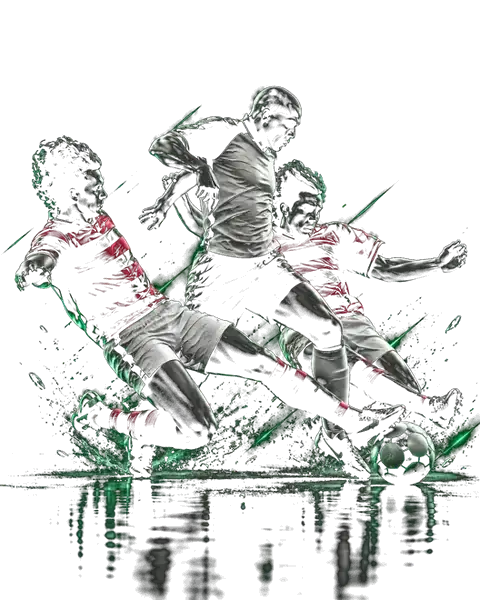
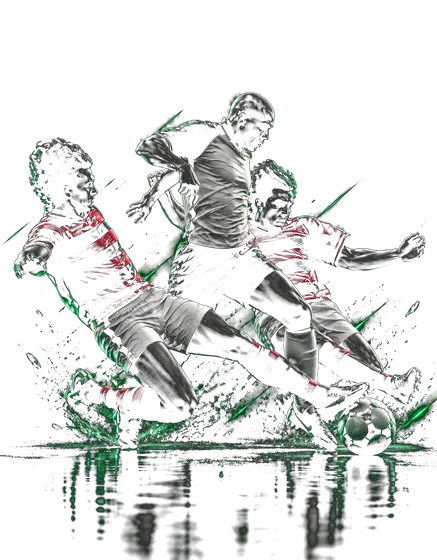
Fotos dos modos no mesmo molde, menores e mais nítidas
As quatro saíam de recortes diferentes e apareciam em tamanhos diferentes
na tela. Agora todas têm a mesma proporção e a mesma caixa: 161 por 206
no computador, 136 por 174 no celular.

Regeradas a partir dos arquivos originais, não dos webp já comprimidos,
com qualidade 82 e alfa 88 no lugar de 60 e 65. O arquivo ficou com quase
três vezes a altura de exibição, então a foto encolheu e ganhou nitidez
em vez de perder.

Claude-Session: https://claude.ai/code/session_01Tvn8vc8MShWFSSNvRPUFzD

diff --git a/casca.html b/casca.html
@@ -545,7 +545,7 @@ h1 em{font-style:italic;color:var(--verde)}
 .modo{position:relative;text-align:left;border:1px solid var(--linha);border-radius:14px;
   background:var(--carta);padding:22px 20px 20px;cursor:pointer;color:inherit;font-family:inherit;
   overflow:hidden;transition:border-color .16s,transform .16s,box-shadow .16s;
-  min-height:268px;padding-right:34%}
+  min-height:236px;padding-right:200px}
 /* o conteúdo precisa ser posicionado: elemento com z-index pinta acima de
    irmão não posicionado, e a foto passaria por cima do texto */
 .modo > :not(.foto){position:relative;z-index:1}
@@ -557,37 +557,29 @@ h1 em{font-style:italic;color:var(--verde)}
 .modo h3{font-size:25px;font-weight:900;font-style:italic;letter-spacing:-.03em;
   margin:8px 0 7px;line-height:1.05;text-transform:uppercase}
 .modo p{font-size:13px;color:var(--apagado);line-height:1.6;max-width:42ch}
-.modo .foto{position:absolute;inset:0 0 0 auto;width:32%;z-index:0;pointer-events:none;
-  -webkit-mask-image:linear-gradient(90deg,transparent,#000 46%);
-  mask-image:linear-gradient(90deg,transparent,#000 46%)}
+/* as quatro fotos saem do mesmo molde: mesma proporção, mesma altura na
+   tela e arquivo com quase três vezes essa altura, para ficar nítido */
+.modo .foto{position:absolute;right:16px;top:auto;bottom:0;height:206px;aspect-ratio:437/560;
+  z-index:0;pointer-events:none;
+  -webkit-mask-image:linear-gradient(90deg,transparent,#000 44%),
+                     linear-gradient(180deg,transparent,#000 16%);
+  mask-image:linear-gradient(90deg,transparent,#000 44%),
+             linear-gradient(180deg,transparent,#000 16%);
+  -webkit-mask-composite:source-in;mask-composite:intersect}
 .modo .foto img{display:block;width:100%;height:100%;object-fit:cover;
   transition:transform .5s cubic-bezier(.2,.7,.3,1),opacity .3s;opacity:.9}
 @media(hover:hover){.modo:hover .foto img{transform:scale(1.06);opacity:1}}
 /* cada foto tem o seu ponto de interesse em altura diferente */
-.modo[data-base="lendas"]    .foto img{object-position:50% 26%}
-.modo[data-base="atuais"]    .foto img{object-position:50% 26%}
-.modo[data-base="temporada"] .foto img{object-position:50% 30%}
-/* os dois estão de corpo inteiro: cabem inteiros em vez de preencher,
-   e a máscara segue a largura real da imagem, não a da caixa */
-/* a caixa toma a proporção da foto: com contain sobrava vazio dentro dela
-   e a máscara, medida em % da caixa, cortava reto na borda da imagem */
-.modo.local .foto{width:auto;aspect-ratio:457/600;
-  -webkit-mask-image:linear-gradient(90deg,transparent,#000 46%),
-                     linear-gradient(180deg,transparent,#000 15%);
-  mask-image:linear-gradient(90deg,transparent,#000 46%),
-             linear-gradient(180deg,transparent,#000 15%);
-  -webkit-mask-composite:source-in;mask-composite:intersect}
-.modo.local .foto img{object-position:50% 100%}
+.modo[data-base="lendas"]    .foto img{object-position:50% 30%}
+.modo[data-base="atuais"]    .foto img{object-position:50% 24%}
+.modo[data-base="temporada"] .foto img{object-position:50% 28%}
+.modo.local                  .foto img{object-position:50% 100%}
 @media(max-width:759px){
-  /* no celular a foto fica atrás do texto, então recua e apaga */
-  .modo{padding-right:20px;min-height:250px}
-  .modo .foto{width:54%;
-    -webkit-mask-image:linear-gradient(90deg,transparent,#000 68%);
-    mask-image:linear-gradient(90deg,transparent,#000 68%)}
+  /* no celular a foto fica atrás do texto, então encolhe e apaga */
+  .modo{padding-right:20px;min-height:236px}
+  .modo .foto{height:174px;right:10px}
   .modo .foto img{opacity:.26}
-  /* a foto do duelo é a mais clara das quatro e vinha por cima do texto */
-  .modo.local .foto{height:78%;top:auto;bottom:0}
-  .modo.local .foto img{opacity:.2}
+  .modo.local .foto img{opacity:.2}   /* é a mais clara das quatro */
   .modo p,.modo .pe{max-width:25ch}
 }
 .modo .pe{display:flex;gap:14px;margin-top:15px;font-size:11px;color:var(--apagado);

diff --git a/index.html b/index.html
@@ -545,7 +545,7 @@ h1 em{font-style:italic;color:var(--verde)}
 .modo{position:relative;text-align:left;border:1px solid var(--linha);border-radius:14px;
   background:var(--carta);padding:22px 20px 20px;cursor:pointer;color:inherit;font-family:inherit;
   overflow:hidden;transition:border-color .16s,transform .16s,box-shadow .16s;
-  min-height:268px;padding-right:34%}
+  min-height:236px;padding-right:200px}
 /* o conteúdo precisa ser posicionado: elemento com z-index pinta acima de
    irmão não posicionado, e a foto passaria por cima do texto */
 .modo > :not(.foto){position:relative;z-index:1}
@@ -557,37 +557,29 @@ h1 em{font-style:italic;color:var(--verde)}
 .modo h3{font-size:25px;font-weight:900;font-style:italic;letter-spacing:-.03em;
   margin:8px 0 7px;line-height:1.05;text-transform:uppercase}
 .modo p{font-size:13px;color:var(--apagado);line-height:1.6;max-width:42ch}
-.modo .foto{position:absolute;inset:0 0 0 auto;width:32%;z-index:0;pointer-events:none;
-  -webkit-mask-image:linear-gradient(90deg,transparent,#000 46%);
-  mask-image:linear-gradient(90deg,transparent,#000 46%)}
+/* as quatro fotos saem do mesmo molde: mesma proporção, mesma altura na
+   tela e arquivo com quase três vezes essa altura, para ficar nítido */
+.modo .foto{position:absolute;right:16px;top:auto;bottom:0;height:206px;aspect-ratio:437/560;
+  z-index:0;pointer-events:none;
+  -webkit-mask-image:linear-gradient(90deg,transparent,#000 44%),
+                     linear-gradient(180deg,transparent,#000 16%);
+  mask-image:linear-gradient(90deg,transparent,#000 44%),
+             linear-gradient(180deg,transparent,#000 16%);
+  -webkit-mask-composite:source-in;mask-composite:intersect}
 .modo .foto img{display:block;width:100%;height:100%;object-fit:cover;
   transition:transform .5s cubic-bezier(.2,.7,.3,1),opacity .3s;opacity:.9}
 @media(hover:hover){.modo:hover .foto img{transform:scale(1.06);opacity:1}}
 /* cada foto tem o seu ponto de interesse em altura diferente */
-.modo[data-base="lendas"]    .foto img{object-position:50% 26%}
-.modo[data-base="atuais"]    .foto img{object-position:50% 26%}
-.modo[data-base="temporada"] .foto img{object-position:50% 30%}
-/* os dois estão de corpo inteiro: cabem inteiros em vez de preencher,
-   e a máscara segue a largura real da imagem, não a da caixa */
-/* a caixa toma a proporção da foto: com contain sobrava vazio dentro dela
-   e a máscara, medida em % da caixa, cortava reto na borda da imagem */
-.modo.local .foto{width:auto;aspect-ratio:457/600;
-  -webkit-mask-image:linear-gradient(90deg,transparent,#000 46%),
-                     linear-gradient(180deg,transparent,#000 15%);
-  mask-image:linear-gradient(90deg,transparent,#000 46%),
-             linear-gradient(180deg,transparent,#000 15%);
-  -webkit-mask-composite:source-in;mask-composite:intersect}
-.modo.local .foto img{object-position:50% 100%}
+.modo[data-base="lendas"]    .foto img{object-position:50% 30%}
+.modo[data-base="atuais"]    .foto img{object-position:50% 24%}
+.modo[data-base="temporada"] .foto img{object-position:50% 28%}
+.modo.local                  .foto img{object-position:50% 100%}
 @media(max-width:759px){
-  /* no celular a foto fica atrás do texto, então recua e apaga */
-  .modo{padding-right:20px;min-height:250px}
-  .modo .foto{width:54%;
-    -webkit-mask-image:linear-gradient(90deg,transparent,#000 68%);
-    mask-image:linear-gradient(90deg,transparent,#000 68%)}
+  /* no celular a foto fica atrás do texto, então encolhe e apaga */
+  .modo{padding-right:20px;min-height:236px}
+  .modo .foto{height:174px;right:10px}
   .modo .foto img{opacity:.26}
-  /* a foto do duelo é a mais clara das quatro e vinha por cima do texto */
-  .modo.local .foto{height:78%;top:auto;bottom:0}
-  .modo.local .foto img{opacity:.2}
+  .modo.local .foto img{opacity:.2}   /* é a mais clara das quatro */
   .modo p,.modo .pe{max-width:25ch}
 }
 .modo .pe{display:flex;gap:14px;margin-top:15px;font-size:11px;color:var(--apagado);

diff --git a/tmpl.html b/tmpl.html
@@ -545,7 +545,7 @@ h1 em{font-style:italic;color:var(--verde)}
 .modo{position:relative;text-align:left;border:1px solid var(--linha);border-radius:14px;
   background:var(--carta);padding:22px 20px 20px;cursor:pointer;color:inherit;font-family:inherit;
   overflow:hidden;transition:border-color .16s,transform .16s,box-shadow .16s;
-  min-height:268px;padding-right:34%}
+  min-height:236px;padding-right:200px}
 /* o conteúdo precisa ser posicionado: elemento com z-index pinta acima de
    irmão não posicionado, e a foto passaria por cima do texto */
 .modo > :not(.foto){position:relative;z-index:1}
@@ -557,37 +557,29 @@ h1 em{font-style:italic;color:var(--verde)}
 .modo h3{font-size:25px;font-weight:900;font-style:italic;letter-spacing:-.03em;
   margin:8px 0 7px;line-height:1.05;text-transform:uppercase}
 .modo p{font-size:13px;color:var(--apagado);line-height:1.6;max-width:42ch}
-.modo .foto{position:absolute;inset:0 0 0 auto;width:32%;z-index:0;pointer-events:none;
-  -webkit-mask-image:linear-gradient(90deg,transparent,#000 46%);
-  mask-image:linear-gradient(90deg,transparent,#000 46%)}
+/* as quatro fotos saem do mesmo molde: mesma proporção, mesma altura na
+   tela e arquivo com quase três vezes essa altura, para ficar nítido */
+.modo .foto{position:absolute;right:16px;top:auto;bottom:0;height:206px;aspect-ratio:437/560;
+  z-index:0;pointer-events:none;
+  -webkit-mask-image:linear-gradient(90deg,transparent,#000 44%),
+                     linear-gradient(180deg,transparent,#000 16%);
+  mask-image:linear-gradient(90deg,transparent,#000 44%),
+             linear-gradient(180deg,transparent,#000 16%);
+  -webkit-mask-composite:source-in;mask-composite:intersect}
 .modo .foto img{display:block;width:100%;height:100%;object-fit:cover;
   transition:transform .5s cubic-bezier(.2,.7,.3,1),opacity .3s;opacity:.9}
 @media(hover:hover){.modo:hover .foto img{transform:scale(1.06);opacity:1}}
 /* cada foto tem o seu ponto de interesse em altura diferente */
-.modo[data-base="lendas"]    .foto img{object-position:50% 26%}
-.modo[data-base="atuais"]    .foto img{object-position:50% 26%}
-.modo[data-base="temporada"] .foto img{object-position:50% 30%}
-/* os dois estão de corpo inteiro: cabem inteiros em vez de preencher,
-   e a máscara segue a largura real da imagem, não a da caixa */
-/* a caixa toma a proporção da foto: com contain sobrava vazio dentro dela
-   e a máscara, medida em % da caixa, cortava reto na borda da imagem */
-.modo.local .foto{width:auto;aspect-ratio:457/600;
-  -webkit-mask-image:linear-gradient(90deg,transparent,#000 46%),
-                     linear-gradient(180deg,transparent,#000 15%);
-  mask-image:linear-gradient(90deg,transparent,#000 46%),
-             linear-gradient(180deg,transparent,#000 15%);
-  -webkit-mask-composite:source-in;mask-composite:intersect}
-.modo.local .foto img{object-position:50% 100%}
+.modo[data-base="lendas"]    .foto img{object-position:50% 30%}
+.modo[data-base="atuais"]    .foto img{object-position:50% 24%}
+.modo[data-base="temporada"] .foto img{object-position:50% 28%}
+.modo.local                  .foto img{object-position:50% 100%}
 @media(max-width:759px){
-  /* no celular a foto fica atrás do texto, então recua e apaga */
-  .modo{padding-right:20px;min-height:250px}
-  .modo .foto{width:54%;
-    -webkit-mask-image:linear-gradient(90deg,transparent,#000 68%);
-    mask-image:linear-gradient(90deg,transparent,#000 68%)}
+  /* no celular a foto fica atrás do texto, então encolhe e apaga */
+  .modo{padding-right:20px;min-height:236px}
+  .modo .foto{height:174px;right:10px}
   .modo .foto img{opacity:.26}
-  /* a foto do duelo é a mais clara das quatro e vinha por cima do texto */
-  .modo.local .foto{height:78%;top:auto;bottom:0}
-  .modo.local .foto img{opacity:.2}
+  .modo.local .foto img{opacity:.2}   /* é a mais clara das quatro */
   .modo p,.modo .pe{max-width:25ch}
 }
 .modo .pe{display:flex;gap:14px;margin-top:15px;font-size:11px;color:var(--apagado);
